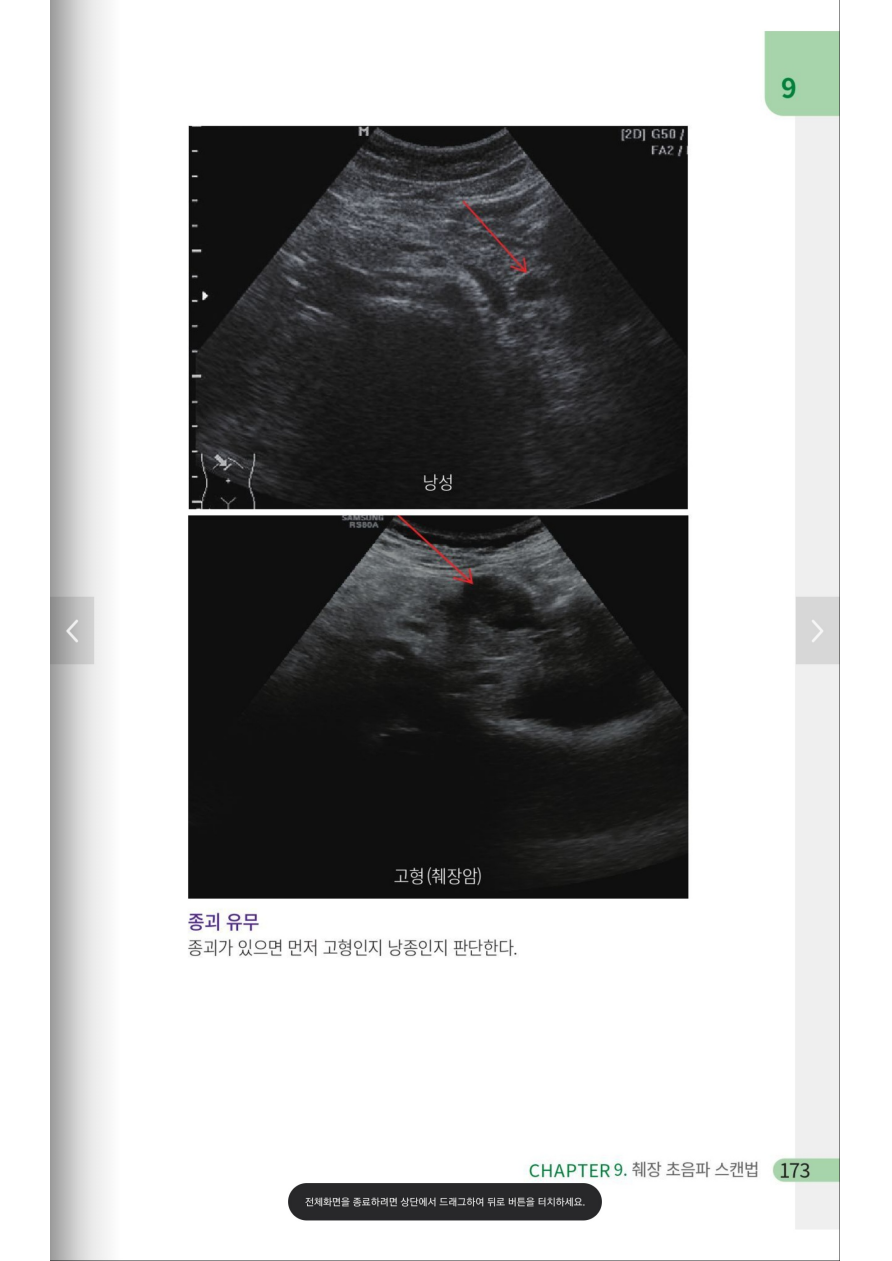
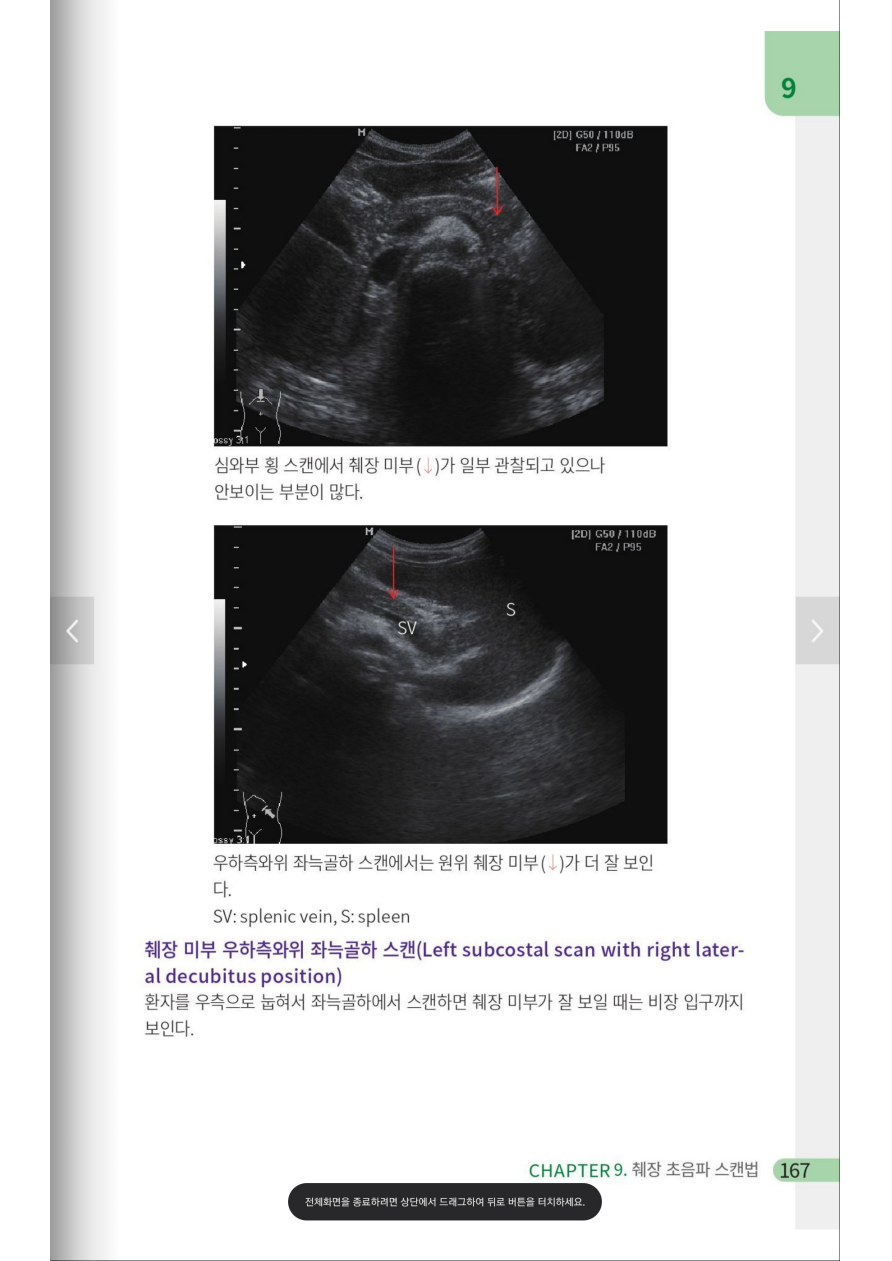
docs(onenote): abdomen-technique.html — 원노트 그림 12개 추가

Changed region(s): [[0.1513, 0.0928, 0.8173, 0.8351], [0.8778, 0.9278, 0.9081, 0.9588]]

diff --git a/abdomen-technique.html b/abdomen-technique.html
@@ -48,10 +48,9 @@
 <li>CT상 right lobe의 anterior 쪽에 bowel이 있는 경우 잘 안 보이므로 환자를 눕혀서 본다.</li>
 <li>사람마다 췌장의 밝기가 다르므로 P-duct와 splenic vein을 landmark로 삼아 찾아서 본다.</li>
 </ul>
-
-      <figure class="fig">
-        <img src="assets/onenote/간담췌-파트-술기-02.png" alt="ab2c1bacaa8a0f252d29533b205a5d!1-7B7300AE98D01EB7!sb6d6ea31c98d44ae9ca" loading="lazy">
-        <figcaption>ab2c1bacaa8a0f252d29533b205a5d!1-7B7300AE98D01EB7!sb6d6ea31c98d44ae9ca</figcaption>
+<figure class="fig">
+        <img src="assets/onenote/간담췌-파트-술기-12.png" alt="간담췌 파트 술기 그림 12" loading="lazy">
+        <figcaption>간담췌 파트 술기 그림 12</figcaption>
       </figure>
 
 <h2 id="s-간-스캔">간 스캔</h2>
@@ -75,6 +74,21 @@
 </table>
 <p>Rt liver에서 HV는 삼지창 view로, PV는 두 번에 나눠서 portal confluence 및 RPV anterior/posterior가 나뉘는 지점을 subcostal로 2회에 걸쳐 본다.</p>
 
+      <figure class="fig">
+        <img src="assets/onenote/간담췌-파트-술기-09.png" alt="우엽 늑간 스캔에서 S5와 S8 확인" loading="lazy">
+        <figcaption>우엽 늑간 스캔에서 S5와 S8 확인</figcaption>
+      </figure>
+
+      <figure class="fig">
+        <img src="assets/onenote/간담췌-파트-술기-10.png" alt="간정맥 스캔에서 좌문맥지와 간정맥인대 주변 구조" loading="lazy">
+        <figcaption>간정맥 스캔에서 좌문맥지와 간정맥인대 주변 구조</figcaption>
+      </figure>
+
+      <figure class="fig">
+        <img src="assets/onenote/간담췌-파트-술기-13.png" alt="좌엽 외측단과 dome 부위를 확인하는 간 스캔" loading="lazy">
+        <figcaption>좌엽 외측단과 dome 부위를 확인하는 간 스캔</figcaption>
+      </figure>
+
 <h2 id="s-p-duct">P-duct</h2>
 <ol>
 <li>Chest CT — Aorta, ligamentum venosum</li>
@@ -97,12 +111,47 @@
 <li>Study material: cholecystosis, cholecystorolosis, GB adenomyomatosis</li>
 </ul>
 
+      <figure class="fig">
+        <img src="assets/onenote/간담췌-파트-술기-14.png" alt="우후관 변이와 간문부 합류부를 확인하는 담도 검사" loading="lazy">
+        <figcaption>우후관 변이와 간문부 합류부를 확인하는 담도 검사</figcaption>
+      </figure>
+
+      <figure class="fig">
+        <img src="assets/onenote/간담췌-파트-술기-15.png" alt="주문맥 앞 원형 총관과 내측 간동맥이 보인다" loading="lazy">
+        <figcaption>주문맥 앞 원형 총관과 내측 간동맥이 보인다</figcaption>
+      </figure>
+
 <h2 id="s-췌장">췌장</h2>
 <ul>
 <li>Pancreas routine view는 거의 body만 보이므로, duodenal portion까지 충분히 내려서 head와 uncinate를 보려고 노력하고, trans-splenic view로 tail의 끝부분을 본다.</li>
 <li>T colon 아래에서 pancreas body를 향해 아래에서 위로 올라가는 view도 추가한다.</li>
 <li>P-duct가 4 mm 이상이거나 uneven하게 울퉁불퉁하면 긴장하고 APCT/Pancreas CT를 고려한다.</li>
 </ul>
+
+      <figure class="fig">
+        <img src="assets/onenote/간담췌-파트-술기-01.png" alt="췌장 에코 감소는 급성 췌장염, 증가는 지방 침착" loading="lazy">
+        <figcaption>췌장 에코 감소는 급성 췌장염, 증가는 지방 침착</figcaption>
+      </figure>
+
+      <figure class="fig">
+        <img src="assets/onenote/간담췌-파트-술기-02.png" alt="췌장 미부 횡스캔에서 비장과 비정맥이 보인다" loading="lazy">
+        <figcaption>췌장 미부 횡스캔에서 비장과 비정맥이 보인다</figcaption>
+      </figure>
+
+      <figure class="fig">
+        <img src="assets/onenote/간담췌-파트-술기-03.png" alt="탐촉자를 우측으로 이동해 췌장 경부와 구상돌기를 본다" loading="lazy">
+        <figcaption>탐촉자를 우측으로 이동해 췌장 경부와 구상돌기를 본다</figcaption>
+      </figure>
+
+      <figure class="fig">
+        <img src="assets/onenote/간담췌-파트-술기-05.png" alt="췌장 미부의 횡단 또는 사선 스캔" loading="lazy">
+        <figcaption>췌장 미부의 횡단 또는 사선 스캔</figcaption>
+      </figure>
+
+      <figure class="fig">
+        <img src="assets/onenote/간담췌-파트-술기-06.png" alt="SMV·uncinate process와 췌장 두부 횡단 스캔" loading="lazy">
+        <figcaption>SMV·uncinate process와 췌장 두부 횡단 스캔</figcaption>
+      </figure>
 
 <h2 id="s-신장-및-비장">신장 및 비장</h2>
 <h3>Rt Kidney and Liver</h3>
@@ -122,6 +171,11 @@
 <li>Sono로 APN detection은 사실상 불가능하다.</li>
 <li>소아 UTI는 sono로 보지 않으며, very severe stage가 아닌 것을 확인하는 용도로 쓴다.</li>
 </ul>
+
+      <figure class="fig">
+        <img src="assets/onenote/간담췌-파트-술기-04.png" alt="바로 누워서 또는 우측으로 누워 좌측 늑간에서 검사" loading="lazy">
+        <figcaption>바로 누워서 또는 우측으로 누워 좌측 늑간에서 검사</figcaption>
+      </figure>
 
 <h2 id="s-병변-평가">병변 평가</h2>
 <ul>
